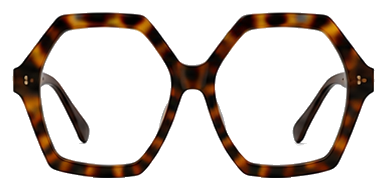
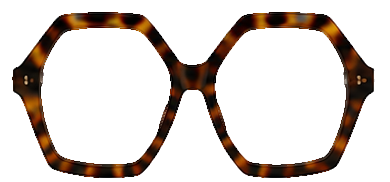
Clean glasses try-on images: remove arms, white fringes and specks

diff --git a/frontend/js/arRenderer.js b/frontend/js/arRenderer.js
@@ -225,32 +225,32 @@ export const GLASSES_STYLE_CONFIG = Object.freeze({
  * the same convention the previous hand-drawn shapes used.
  */
 export const GLASSES_SHAPES = {
-    "aviator-gold": `<image href="assets/glasses/aviator-gold.png" x="-173.31" y="-80.12" width="352.25" height="153.88" preserveAspectRatio="none"/>`,
-    "browline-gold": `<image href="assets/glasses/browline-gold.png" x="-171.51" y="-52.02" width="349.12" height="134.69" preserveAspectRatio="none"/>`,
-    "browline-gold2": `<image href="assets/glasses/browline-gold2.png" x="-170.97" y="-52.51" width="345.96" height="133.67" preserveAspectRatio="none"/>`,
-    "browline-silver": `<image href="assets/glasses/browline-silver.png" x="-170.9" y="-51.0" width="343.5" height="127.59" preserveAspectRatio="none"/>`,
-    "cateye-amber": `<image href="assets/glasses/cateye-amber.png" x="-169.42" y="-65.59" width="336.73" height="145.66" preserveAspectRatio="none"/>`,
-    "cateye-black": `<image href="assets/glasses/cateye-black.png" x="-168.51" y="-65.4" width="337.58" height="142.14" preserveAspectRatio="none"/>`,
-    "cateye-red": `<image href="assets/glasses/cateye-red.png" x="-171.01" y="-58.66" width="341.83" height="133.23" preserveAspectRatio="none"/>`,
-    "classic-tortoise": `<image href="assets/glasses/classic-tortoise.png" x="-173.0" y="-62.98" width="350.29" height="131.36" preserveAspectRatio="none"/>`,
-    "clear-square": `<image href="assets/glasses/clear-square.png" x="-167.96" y="-62.09" width="335.76" height="134.65" preserveAspectRatio="none"/>`,
-    "colorblock-square": `<image href="assets/glasses/colorblock-square.png" x="-175.21" y="-67.01" width="352.47" height="143.19" preserveAspectRatio="none"/>`,
-    "hexagon-gold": `<image href="assets/glasses/hexagon-gold.png" x="-173.12" y="-79.58" width="345.58" height="145.51" preserveAspectRatio="none"/>`,
-    "hexagon-gunmetal": `<image href="assets/glasses/hexagon-gunmetal.png" x="-176.35" y="-70.1" width="350.76" height="134.63" preserveAspectRatio="none"/>`,
-    "hexagon-tortoise": `<image href="assets/glasses/hexagon-tortoise.png" x="-175.61" y="-85.95" width="356.22" height="166.23" preserveAspectRatio="none"/>`,
-    "oval-gold-wire": `<image href="assets/glasses/oval-gold-wire.png" x="-173.75" y="-61.14" width="347.57" height="114.09" preserveAspectRatio="none"/>`,
-    "rect-thin-metal": `<image href="assets/glasses/rect-thin-metal.png" x="-175.45" y="-54.48" width="348.12" height="107.88" preserveAspectRatio="none"/>`,
-    "rimless-silver-bar": `<image href="assets/glasses/rimless-silver-bar.png" x="-178.1" y="-55.8" width="365.3" height="115.4" preserveAspectRatio="none"/>`,
-    "rimless-gunmetal-square": `<image href="assets/glasses/rimless-gunmetal-square.png" x="-173.7" y="-68.9" width="352.8" height="134.6" preserveAspectRatio="none"/>`,
-    "rimless-gunmetal-aviator": `<image href="assets/glasses/rimless-gunmetal-aviator.png" x="-191.4" y="-59.5" width="392.9" height="138.6" preserveAspectRatio="none"/>`,
-    "rimless-rosegold-cateye": `<image href="assets/glasses/rimless-rosegold-cateye.png" x="-170.6" y="-52.3" width="348.2" height="112.1" preserveAspectRatio="none"/>`,
-    "round-gold-wire": `<image href="assets/glasses/round-gold-wire.png" x="-174.1" y="-73.89" width="349.78" height="138.44" preserveAspectRatio="none"/>`,
-    "round-gunmetal": `<image href="assets/glasses/round-gunmetal.png" x="-177.12" y="-86.19" width="353.63" height="158.66" preserveAspectRatio="none"/>`,
-    "round-tortoise": `<image href="assets/glasses/round-tortoise.png" x="-176.18" y="-62.86" width="360.69" height="134.69" preserveAspectRatio="none"/>`,
-    "sport-wrap": `<image href="assets/glasses/sport-wrap.png" x="-204.45" y="-78.01" width="412.79" height="159.89" preserveAspectRatio="none"/>`,
-    "square-black": `<image href="assets/glasses/square-black.png" x="-174.29" y="-65.26" width="354.08" height="141.08" preserveAspectRatio="none"/>`,
-    "square-bold-tortoise": `<image href="assets/glasses/square-bold-tortoise.png" x="-171.98" y="-65.71" width="347.47" height="138.11" preserveAspectRatio="none"/>`,
-    "square-green": `<image href="assets/glasses/square-green.png" x="-176.74" y="-66.78" width="354.37" height="144.1" preserveAspectRatio="none"/>`,
-    "square-oversized-tortoise": `<image href="assets/glasses/square-oversized-tortoise.png" x="-165.82" y="-82.36" width="333.61" height="164.2" preserveAspectRatio="none"/>`,
-    "wayfarer-black": `<image href="assets/glasses/wayfarer-black.png" x="-175.1" y="-62.09" width="352.18" height="134.37" preserveAspectRatio="none"/>`,
+    "aviator-gold": `<image href="assets/glasses/aviator-gold.png?v=3" x="-173.31" y="-80.12" width="352.25" height="153.88" preserveAspectRatio="none"/>`,
+    "browline-gold": `<image href="assets/glasses/browline-gold.png?v=3" x="-171.51" y="-52.02" width="349.12" height="134.69" preserveAspectRatio="none"/>`,
+    "browline-gold2": `<image href="assets/glasses/browline-gold2.png?v=3" x="-170.97" y="-52.51" width="345.96" height="133.67" preserveAspectRatio="none"/>`,
+    "browline-silver": `<image href="assets/glasses/browline-silver.png?v=3" x="-170.9" y="-51.0" width="343.5" height="127.59" preserveAspectRatio="none"/>`,
+    "cateye-amber": `<image href="assets/glasses/cateye-amber.png?v=3" x="-169.42" y="-65.59" width="336.73" height="145.66" preserveAspectRatio="none"/>`,
+    "cateye-black": `<image href="assets/glasses/cateye-black.png?v=3" x="-168.51" y="-65.4" width="337.58" height="142.14" preserveAspectRatio="none"/>`,
+    "cateye-red": `<image href="assets/glasses/cateye-red.png?v=3" x="-171.01" y="-58.66" width="341.83" height="133.23" preserveAspectRatio="none"/>`,
+    "classic-tortoise": `<image href="assets/glasses/classic-tortoise.png?v=3" x="-173.0" y="-62.98" width="350.29" height="131.36" preserveAspectRatio="none"/>`,
+    "clear-square": `<image href="assets/glasses/clear-square.png?v=3" x="-167.96" y="-62.09" width="335.76" height="134.65" preserveAspectRatio="none"/>`,
+    "colorblock-square": `<image href="assets/glasses/colorblock-square.png?v=3" x="-175.21" y="-67.01" width="352.47" height="143.19" preserveAspectRatio="none"/>`,
+    "hexagon-gold": `<image href="assets/glasses/hexagon-gold.png?v=3" x="-173.12" y="-79.58" width="345.58" height="145.51" preserveAspectRatio="none"/>`,
+    "hexagon-gunmetal": `<image href="assets/glasses/hexagon-gunmetal.png?v=3" x="-176.35" y="-70.1" width="350.76" height="134.63" preserveAspectRatio="none"/>`,
+    "hexagon-tortoise": `<image href="assets/glasses/hexagon-tortoise.png?v=3" x="-175.61" y="-85.95" width="356.22" height="166.23" preserveAspectRatio="none"/>`,
+    "oval-gold-wire": `<image href="assets/glasses/oval-gold-wire.png?v=3" x="-173.75" y="-61.14" width="347.57" height="114.09" preserveAspectRatio="none"/>`,
+    "rect-thin-metal": `<image href="assets/glasses/rect-thin-metal.png?v=3" x="-175.45" y="-54.48" width="348.12" height="107.88" preserveAspectRatio="none"/>`,
+    "rimless-silver-bar": `<image href="assets/glasses/rimless-silver-bar.png?v=3" x="-178.1" y="-55.8" width="365.3" height="115.4" preserveAspectRatio="none"/>`,
+    "rimless-gunmetal-square": `<image href="assets/glasses/rimless-gunmetal-square.png?v=3" x="-173.7" y="-68.9" width="352.8" height="134.6" preserveAspectRatio="none"/>`,
+    "rimless-gunmetal-aviator": `<image href="assets/glasses/rimless-gunmetal-aviator.png?v=3" x="-191.4" y="-59.5" width="392.9" height="138.6" preserveAspectRatio="none"/>`,
+    "rimless-rosegold-cateye": `<image href="assets/glasses/rimless-rosegold-cateye.png?v=3" x="-170.6" y="-52.3" width="348.2" height="112.1" preserveAspectRatio="none"/>`,
+    "round-gold-wire": `<image href="assets/glasses/round-gold-wire.png?v=3" x="-174.1" y="-73.89" width="349.78" height="138.44" preserveAspectRatio="none"/>`,
+    "round-gunmetal": `<image href="assets/glasses/round-gunmetal.png?v=3" x="-177.12" y="-86.19" width="353.63" height="158.66" preserveAspectRatio="none"/>`,
+    "round-tortoise": `<image href="assets/glasses/round-tortoise.png?v=3" x="-176.18" y="-62.86" width="360.69" height="134.69" preserveAspectRatio="none"/>`,
+    "sport-wrap": `<image href="assets/glasses/sport-wrap.png?v=3" x="-204.45" y="-78.01" width="412.79" height="159.89" preserveAspectRatio="none"/>`,
+    "square-black": `<image href="assets/glasses/square-black.png?v=3" x="-174.29" y="-65.26" width="354.08" height="141.08" preserveAspectRatio="none"/>`,
+    "square-bold-tortoise": `<image href="assets/glasses/square-bold-tortoise.png?v=3" x="-171.98" y="-65.71" width="347.47" height="138.11" preserveAspectRatio="none"/>`,
+    "square-green": `<image href="assets/glasses/square-green.png?v=3" x="-176.74" y="-66.78" width="354.37" height="144.1" preserveAspectRatio="none"/>`,
+    "square-oversized-tortoise": `<image href="assets/glasses/square-oversized-tortoise.png?v=3" x="-165.82" y="-82.36" width="333.61" height="164.2" preserveAspectRatio="none"/>`,
+    "wayfarer-black": `<image href="assets/glasses/wayfarer-black.png?v=3" x="-175.1" y="-62.09" width="352.18" height="134.37" preserveAspectRatio="none"/>`,
 };

diff --git a/frontend/js/ui/glassesScreen.js b/frontend/js/ui/glassesScreen.js
@@ -77,7 +77,7 @@ function renderGlassesList() {
     root.innerHTML = glassesInCategory(currentCategory).map(({ id, name, desc }) => {
         const active = id === currentGlassesStyle;
         return `<button type="button" class="glass-btn option-card is-vertical${active ? " is-selected" : ""}" data-style="${id}" aria-pressed="${active}">`
-            + `<img src="assets/glasses/${id}.png" alt="" loading="lazy" decoding="async">`
+            + `<img src="assets/glasses/${id}.png?v=3" alt="" loading="lazy" decoding="async">`
             + `<strong>${escapeHtml(name)}</strong><small>${escapeHtml(desc)}</small></button>`;
     }).join("");
 }
@@ -123,7 +123,7 @@ export function selectGlassesStyle(style) {
         btn.setAttribute("aria-pressed", String(active));
     });
     document.getElementById("glasses-shape-inner").innerHTML = GLASSES_SHAPES[currentGlassesStyle] || GLASSES_SHAPES[DEFAULT_GLASSES_STYLE];
-    loadImage(`assets/glasses/${currentGlassesStyle}.png`).catch(() => {}); // warm the cache for capture
+    loadImage(`assets/glasses/${currentGlassesStyle}.png?v=3`).catch(() => {}); // warm the cache for capture
 }
 
 /* ---------- Camera session ---------- */
